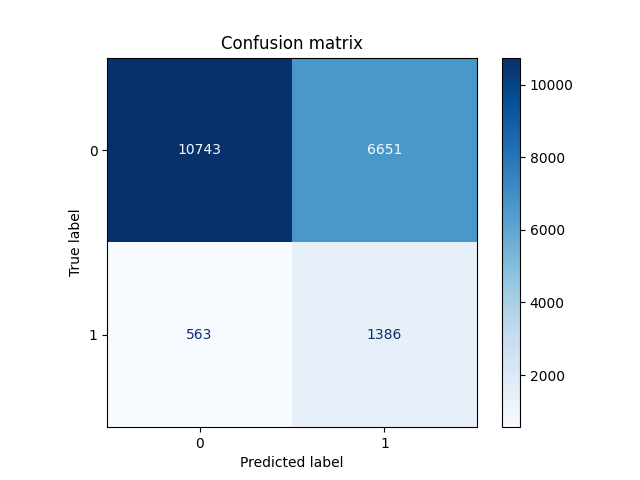
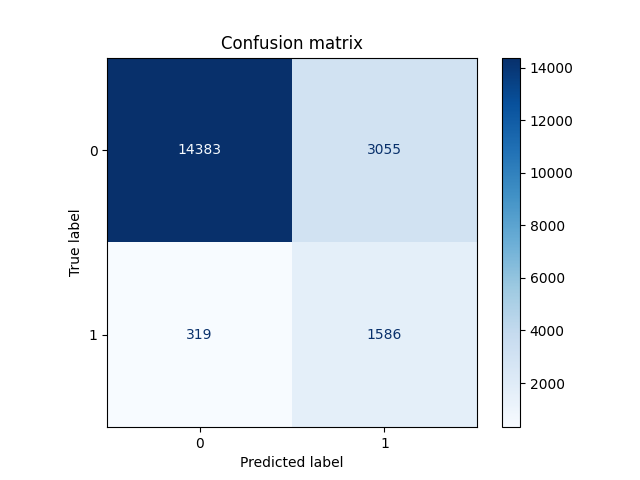
Updated README

diff --git a/README.md b/README.md
@@ -3,6 +3,12 @@
 **LumeNN** is an application that addresses the problem of **binary** and **multiclass** classification
 of variable stars using various machine learning models.
 
+Due to development of the app, README documentation might be slightly outdated -
+it might not show all the classifiers available or
+their metrics could not be the best out of all possible configurations possible for them.
+Nevertheless, the research is valid under any circumstances,
+and thus is a valuable part of the whole repository.
+
 ## Relevance of the Study
 
 Given the significant accumulation of astronomical observation data,
@@ -92,7 +98,8 @@ The dataset suffers from class imbalance:
 
 ![Class distribution in the dataset](binary_classification/docs/images/variable_ratio.png)
 
-This issue was addressed during the study using **class weighting** and **undersampling**.
+This issue was addressed during the study using **class weighting**,
+**oversampling** with SMOTE and **undersampling**.
 
 ### Research
 
@@ -115,6 +122,22 @@ maintaining a reasonable **F1-score** (balancing precision and recall) was also 
 |:--------:|:---------:|:------:|:--------:|  
 |  0.607   |   0.136   | 0.547  |  0.218   |
 
+##### SVC (oversampling)
+
+![Confusion matrix for SVC](binary_classification/docs/images/cm_svc.png)
+
+| Accuracy | Precision | Recall | F1-score |  
+|:--------:|:---------:|:------:|:--------:|  
+|  0.828   |   0.364   | 0.920  |  0.522   |
+
+##### K-Nearest Neighbors (oversampling)
+
+![Confusion matrix for KNN](binary_classification/docs/images/cm_knn.png)
+
+| Accuracy | Precision | Recall | F1-score |  
+|:--------:|:---------:|:------:|:--------:|  
+|  0.830   |   0.342   | 0.830  |  0.484   |
+
 ##### Random Forest (`max_depth=11`; Class Weighting)
 
 ![Confusion matrix for random forest](binary_classification/docs/images/cm_random_forest.png)
@@ -133,13 +156,25 @@ maintaining a reasonable **F1-score** (balancing precision and recall) was also 
 
 ##### Gradient Boosting (`max_depth=13`; Undersampling)
 
-![Confusion matrix for gradient boosting](binary_classification/docs/images/cm_gradient_boosting.png)
+![Confusion matrix for gradient boosting](binary_classification/docs/images/cm_gradient_boosting_undersampling.png)
 
 | Accuracy | Precision | Recall | F1-score |  
 |:--------:|:---------:|:------:|:--------:|  
 |  0.879   |   0.451   | 0.991  |  0.620   |  
 
-##### Stacking
+Gradient Boosting shows the best **recall** with undersampling.
+
+##### Gradient Boosting (`max_depth=13`; Oversampling)
+
+![Confusion matrix for gradient boosting](binary_classification/docs/images/cm_gradient_boosting_oversampling.png)
+
+| Accuracy | Precision | Recall | F1-score |  
+|:--------:|:---------:|:------:|:--------:|  
+|  0.943   |   0.710   | 0.725  |  0.717   |
+
+If SMOTE oversampling is applied, Gradient Boosting shows great **precision** and **F1-score**
+
+##### Stacking (`Gradient Boosting` + `Random Forest` + `Logistic Regression`, Class Weighting)
 
 ![Confusion matrix for stacking](binary_classification/docs/images/cm_stacking.png)
 
@@ -205,24 +240,27 @@ and are loaded when running the application.
 
 The full comparison of models is summarized below:
 
-| Model                                | Accuracy | Precision |  Recall   | F1-score  |  
-|:-------------------------------------|:--------:|:---------:|:---------:|:---------:|  
-| Logistic Regression                  |  0.607   |   0.136   |   0.547   |   0.218   |  
-| Random Forest (`max_depth=11`)       |  0.886   |   0.465   |   0.868   |   0.606   |  
-| SGD (`modified_huber`)               |  0.887   |   0.241   |   0.048   |   0.081   |  
-| Gradient Boosting (`max_depth=13`)   |  0.879   |   0.451   | **0.991** |   0.620   |
-| Stacking                             |  0.949   | **0.831** |   0.620   | **0.710** |  
-|                                      |          |           |           |           |
-| Neural Network (Logistic Regression) |  0.661   |   0.149   |   0.493   |   0.229   |  
-| **Neural Network**                   |  0.895   |   0.496   |   0.916   |   0.643   |  
+| Model                                             | Accuracy | Precision |  Recall   | F1-score  |  
+|:--------------------------------------------------|:--------:|:---------:|:---------:|:---------:|  
+| Logistic Regression                               |  0.607   |   0.136   |   0.547   |   0.218   |
+| SVC                                               |  0.828   |   0.364   |   0.920   |   0.522   |
+| KNN                                               |  0.830   |   0.342   |   0.830   |   0.484   |
+| Random Forest (`max_depth=11`)                    |  0.886   |   0.465   |   0.868   |   0.606   |  
+| SGD (`modified_huber`)                            |  0.887   |   0.241   |   0.048   |   0.081   |  
+| Gradient Boosting (`max_depth=13`, undersampling) |  0.879   |   0.451   | **0.991** |   0.620   |
+| Gradient Boosting (`max_depth=13`, oversampling)  |  0.943   | **0.710** |   0.725   | **0.717** |
+| Stacking                                          |  0.949   | **0.831** |   0.620   | **0.710** |  
+|                                                   |          |           |           |           |
+| Neural Network (Logistic Regression)              |  0.661   |   0.149   |   0.493   |   0.229   |  
+| Neural Network                                    |  0.895   |   0.496   |   0.916   |   0.643   |  
 
-Among the `scikit-learn` models, the **Stacking Classifier** performed best overall,
-achieving the highest **precision** and **F1-score**. But **Gradient Boosting Classifier**
-has the best **recall** which is important in our task.
+Among the `scikit-learn` models, the **Stacking Classifier** and **Gradient Boosting Classifier**
+were the best - nice **precision**, **recall** and **F1-score**.
+You should choose the best model for your specific task.
 
 The neural network results are competitive with other classifiers, which should be noted -
 our configuration is fairly simple and so it is possible that different
-highly tuned neural network could outperform  all `scikit-learn` classifiers by a fair amount.
+highly tuned neural network could outperform all `scikit-learn` classifiers by a fair amount.
 
 ## Multiclass Classification
 
@@ -264,8 +302,9 @@ Once again there is class imbalance:
 Although `CEPHEIDS` and `CATACLYSMIC` stars are almost non-existent in dataset,
 it would be a nice challenge to try to classify those correctly.
 
-All models are using balanced class weights, no undersampling is applied
-(there would be no data left after undersampling).
+This issue was addressed during the study using **class weighting**,
+**oversampling** with SMOTE and **undersampling**,
+although in the research we only utilised **class weighting**
 
 ### Research
 
@@ -389,33 +428,38 @@ that makes it the best classifier for multiclass classification.
 We can also pinpoint how well Gradient Boosting and Random Forest classify `CEPHEIDS` and `CATACLYSMIC` stars:
 they are able to recognise those stars even when their amount is very small.
 
-## Conclusion  
+## Conclusion
 
 This research successfully addressed the challenge of classifying variable stars
 through both **binary** (variable/non-variable) and
 **multiclass** (variable type) approaches.
 
-The key findings demonstrate that:  
+The key findings demonstrate that:
 
-1. **Binary Classification**:  
-   - The custom **neural network** (Mish/Hard Shrink activation, Focal Loss) outperformed most of the 
-   traditional models with an `F1-score` of 0.643, balancing `precision` (0.496) and `recall` (0.916)
-   - **Gradient Boosting** achieved the highest `recall` (0.991), making it suitable for minimal false negatives
-   - **Stacking** classifier performed the best overall, achieving the highest **precision** and **F1-score**.
+1. **Binary Classification**:
+    - The custom **neural network** (Mish/Hard Shrink activation, Focal Loss) outperformed most of the
+      traditional models with an **F1-score** of 0.643, balancing **precision** (0.496) and **recall** (0.916)
+    - **Gradient Boosting** with undersampling achieved the highest `recall** (0.991), making it suitable for minimal
+      false negatives
+    - **Gradient Boosting** with oversampling achieved great **precision** and **F1-score**
+    - **Stacking** classifier performed the best overall, achieving the highest **precision** and **F1-score**
 
-2. **Multiclass Classification**:  
-   - **Gradient Boosting** emerged as the best model, achieving weighted `F1-score` = 0.86 and `precision` = 0.85,
-   excelling in identifying common classes (e.g., Delta Scuti) while handling rarer types.
-   - Class imbalance significantly impacted rare categories (e.g., Cepheids, Cataclysmic), highlighting the need for targeted data collection or augmentation
+2. **Multiclass Classification**:
+    - **Gradient Boosting** emerged as the best model, achieving weighted **F1-score** = 0.86 and **precision** = 0.85,
+      excelling in identifying common classes (e.g., Delta Scuti) while handling rarer types.
+    - Class imbalance significantly impacted rare categories (e.g., Cepheids, Cataclysmic), highlighting the need for
+      targeted data collection or augmentation
 
-3. **Astronomical Insights**:  
-   - Error metrics were critical predictors of variability, correlating with physical changes in stellar brightness
-   - The neural network’s sensitivity to initial weights suggests astrophysical variability patterns may require careful model initialization
+3. **Astronomical Insights**:
+    - Error metrics were critical predictors of variability, correlating with physical changes in stellar brightness
+    - The neural network’s sensitivity to initial weights suggests astrophysical variability patterns may require
+      careful model initialization
 
 This work provides a robust framework for automating variable star identification,
 enabling astronomers to focus on high-value targets and accelerate discoveries in stellar astrophysics.
 That, along with interactive component, makes it a great tool for any stellar research.
 
 ## Contributions
+
 Feel free to star this repository if you liked our research or if you are interested in it;
 in case of latter you are also welcome to contact our with your suggestions or questions.
